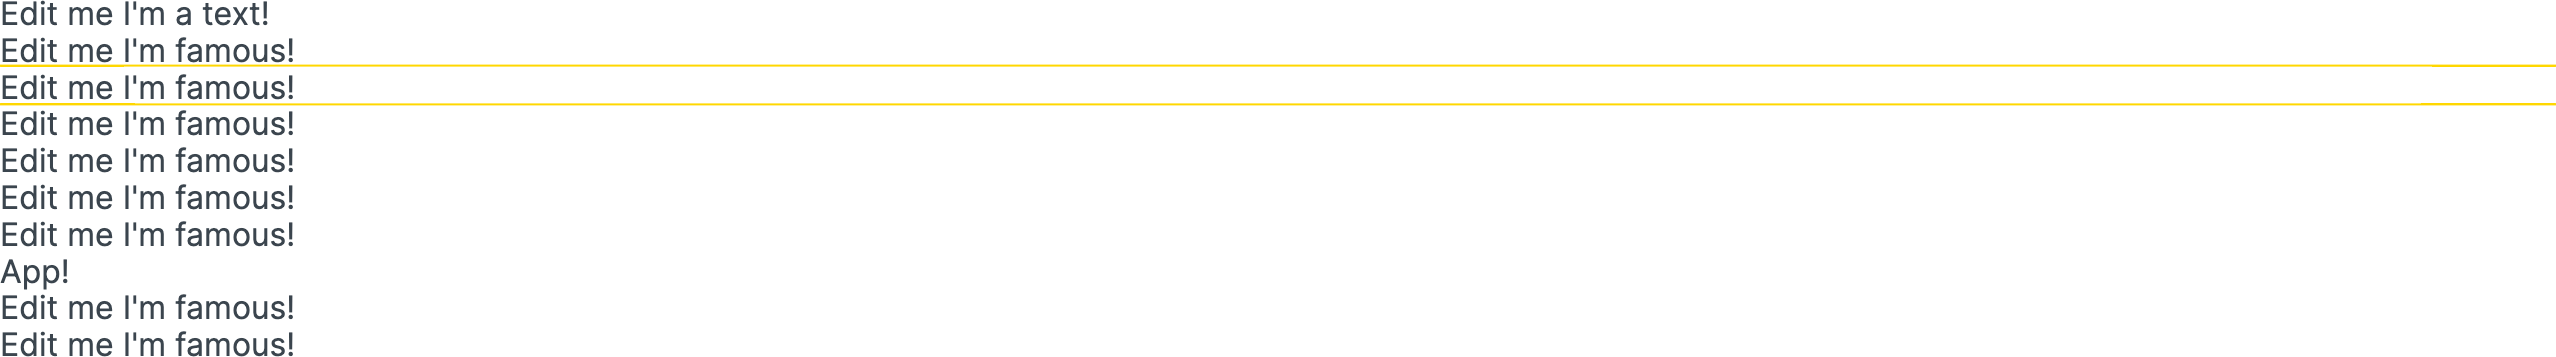
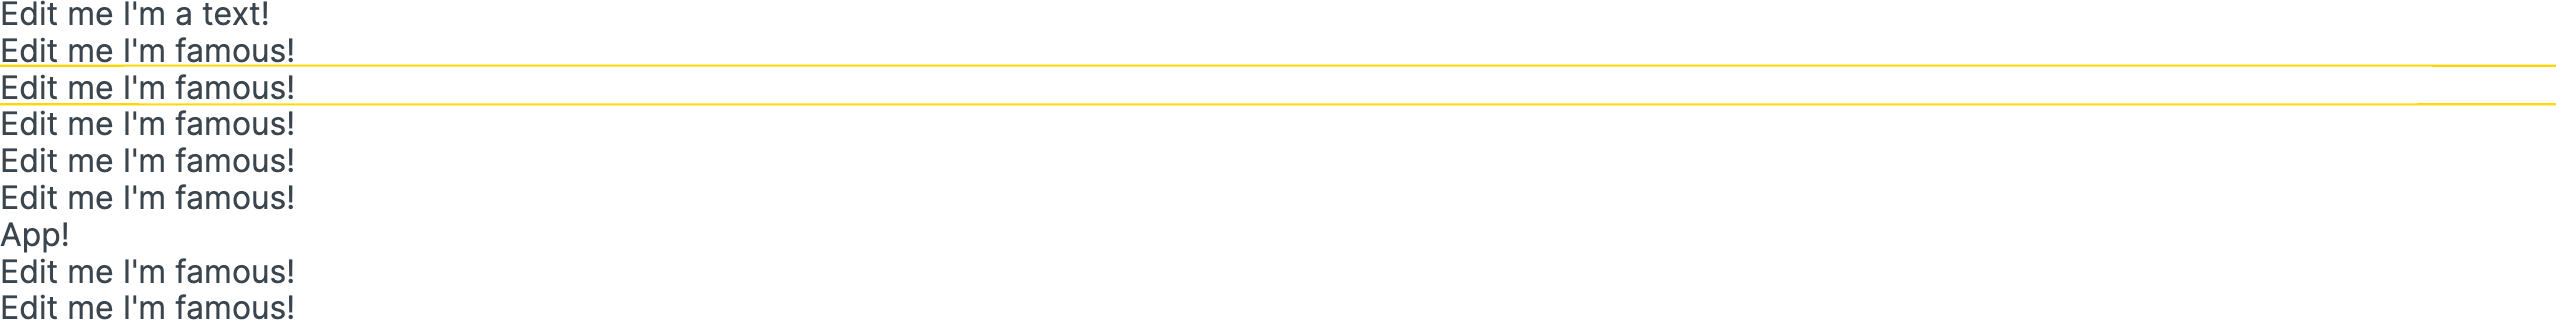
[ecu] Delete component App in App

Changed region(s): [[0.0, 0.0, 1.0, 1.0]]

diff --git a/app/src/App.tsx b/app/src/App.tsx
@@ -27,7 +27,7 @@ function App(props: AppPropsType) {
       
       
       
-      <CoolDiv />
+      
       <CoolDiv />
       <CoolDiv />
       <Text data-ecu="liPz3SHBxY:1">App!</Text>
